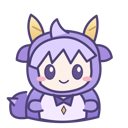
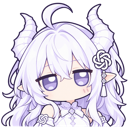
Use Tokyo original dragon artwork in 1.5.1

diff --git a/README.md b/README.md
@@ -1,12 +1,12 @@
 # GPT娘额度挂件
 
-Tokyo · 1.5.0 · MIT 代码 / CC0 原创素材 · `dsh-gpt-niang-quota`
+Tokyo · 1.5.1 · MIT 代码 / Tokyo 授权立绘 / CC0 音效与回复 · `dsh-gpt-niang-quota`
 
 DSH 聊天界面的纯 DOM 陪伴挂件：角色默认位于输入框左侧，可拖动、缩放，点击切换回复气泡与 Codex 额度卡片。额度展示套餐、剩余比例与北京时间重置点，以 Codex 实际返回窗口为准。
 
 ![Tokyo 原创陪伴角色](assets/niang.png)
 
-公开版使用独立创作的紫色龙角陪伴角色、合成音效与 12 句原创回复，不包含原应用提取的图片、音效、语录库或个人截图。
+公开版使用 Tokyo 创作并授权随插件公开分发的龙娘立绘；合成音效与 12 句原创回复保持不变。不包含个人账户数据、真实额度截图或原应用提取的音效与语录库。
 
 ## 安装
 
@@ -55,6 +55,6 @@ npm run test:browser
 
 源码沿用本地 gptniang-dsh，并参考 GPTNiangMac / Local GPT Niang Widget 与 dsh-whale-widget 的实现思路。保留原代码 MIT 署名；完整条款见 [LICENSE](./LICENSE)。该条款不将原应用角色、美术、音效或语录重新授权为 MIT。
 
-原创素材（立绘、图标、合成提示音、回复文字）采用 CC0 1.0，见 [素材许可](assets/LICENSE.txt)。可编辑 SVG 源图保存在仓库中；npm 包仅包含运行所需资源。回复格式为 `{ "quotes": [{ "text": "原创回复", "weight": 1 }] }`。
+龙娘立绘及衍生图标版权归 Tokyo，已授权随本插件、GitHub 仓库、npm 包和市场分发；保留署名与许可说明，不等于将立绘作为 CC0 素材或单独出售。合成提示音、回复文字采用 CC0 1.0，详见 [素材许可](assets/LICENSE.txt)。1.5.0 的占位 SVG 已替换，不是当前立绘的源图。回复格式为 `{ "quotes": [{ "text": "原创回复", "weight": 1 }] }`。
 
 首次市场收录需目录维护者审核；公开仓库、npm 发布和目录收录是分别完成的步骤。
